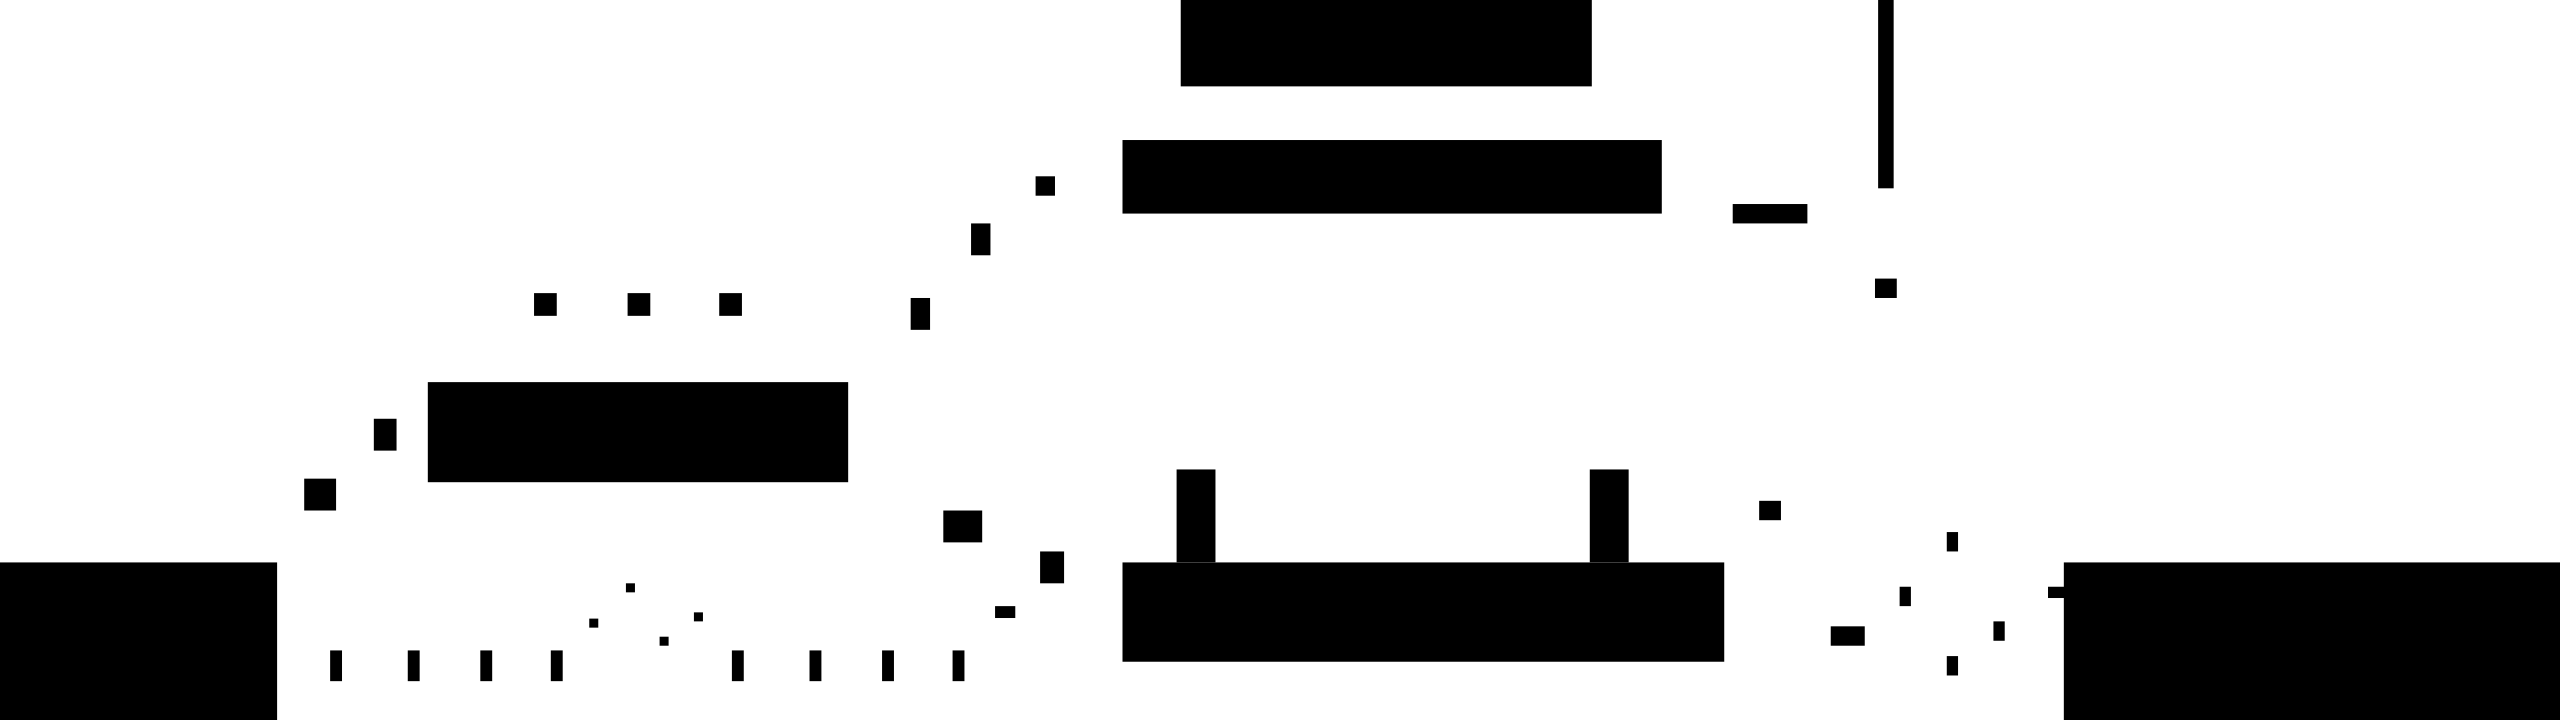
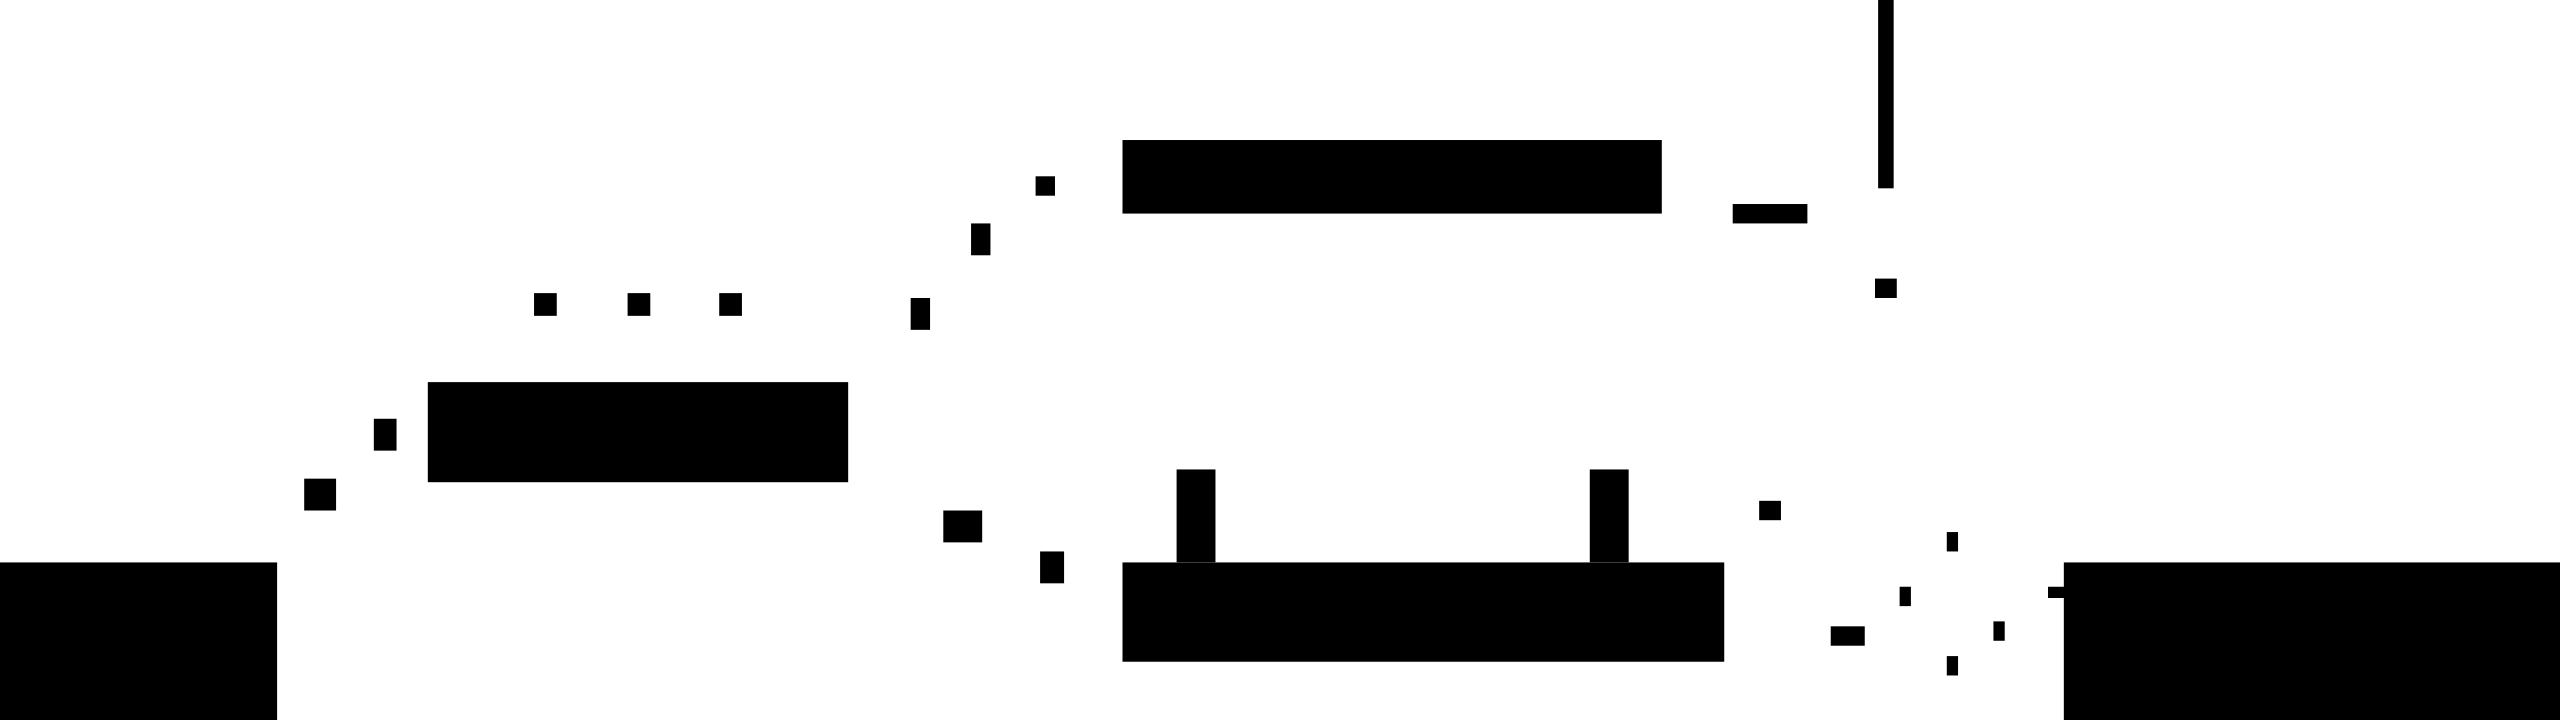
一旦セーブ

diff --git a/Project1/Player.cpp b/Project1/Player.cpp
@@ -276,6 +276,10 @@ void Player::Update()
 		HitFlg = FALSE;
 	}
 
+	if (BlockHitY() == 11)
+	{
+		count += 1;
+	}
 
 	Move();
 	if (Animflg == 1 /*&& Moveflg == 0*/)
@@ -399,7 +403,8 @@ void Player::Draw()
 	DrawFormatString(0, 120, GetColor(0, 0, 0), "BlockNum:%d", BlockNum);
 	for (int i = 0; i < Life; i++)
 	{
-		DrawBox(100 + 50 * i, 100, 130 + 50 * i, 130, GetColor(255, 0, 0), TRUE);
+		//DrawBox(100 + 50 * i, 100, 130 + 50 * i, 130, GetColor(255, 0, 0), TRUE);
+		DrawGraph(100 + 50 * i, 100, image[0], TRUE);
 	}
 }
 
@@ -1158,21 +1163,21 @@ int Player::BlockHitY()
 				if (py < block->S1bloc[i].Y2 && block->S1bloc[i].Y < py2) // 地面に着地している状態
 				{
 					return 1;
+					break;
 				}
-				else if (block->S1bloc[i].Y < py2 && Jumpflg == TRUE) // ジャンプ中
+				else if (block->S1bloc[i].Y > py2 && Jumpflg == TRUE) // ジャンプ中
 				{
 					return 2;
+					break;
 				}
 				else if (py > block->S1bloc[i].Y2 && Jumpflg == TRUE) // プレイヤーの頭上とブロックの下がヒットしたとき、
 				{
 					return 3;
+					break;
 				}
 			}
-			else if (i == 10)
-			{
-				return 0;
-			}
 		}
+		return 0;
 		break;
 	case 2:
 	case 5:

diff --git a/Project1/Block.cpp b/Project1/Block.cpp
@@ -10,7 +10,7 @@ Block::Block()
 	case 1:
 	case 4:
 		//左、右、上、下
-		S1bloc[0] = { 0,270,630,720 };
+		S1bloc[0] = { 0,271,630,720 };
 		S1bloc[1] = { 340,440,565,615 };
 		S1bloc[2] = { 511,555,460,510 };
 		S1bloc[3] = { 475,555,510,555 };
@@ -59,7 +59,7 @@ Block::Block()
 		S3bloc[9] = { 943,982,511,541 };
 		S3bloc[8] = { 970,990,222,253 };
 		S3bloc[10] = { 1035,1055,175,195 };
-		S3bloc[11] = { 1040,1063,550,508 };
+		S3bloc[11] = { 1040,1063,550,584 };
 		S3bloc[12] = { 1121,1660,140,214 };
 		S3bloc[13] = { 1121,1722,563,660 };
 		S3bloc[14] = { 1176,1215,471,560 };

diff --git a/Project1/GameMain.cpp b/Project1/GameMain.cpp
@@ -50,6 +50,7 @@ AbstractScene* GameMain::Update()
 	case 4:
 		NowStage = 1;
 		stage1->Update();
+		enemy->Update();
 		if (Stage1::S1DecisionToAnswerFlg == TRUE)
 		{
 			Initialize();
@@ -82,7 +83,7 @@ AbstractScene* GameMain::Update()
 		return 0;
 	}
 	player->Update();
-	enemy->Update();
+	//enemy->Update();
 
 	return this;
 }
